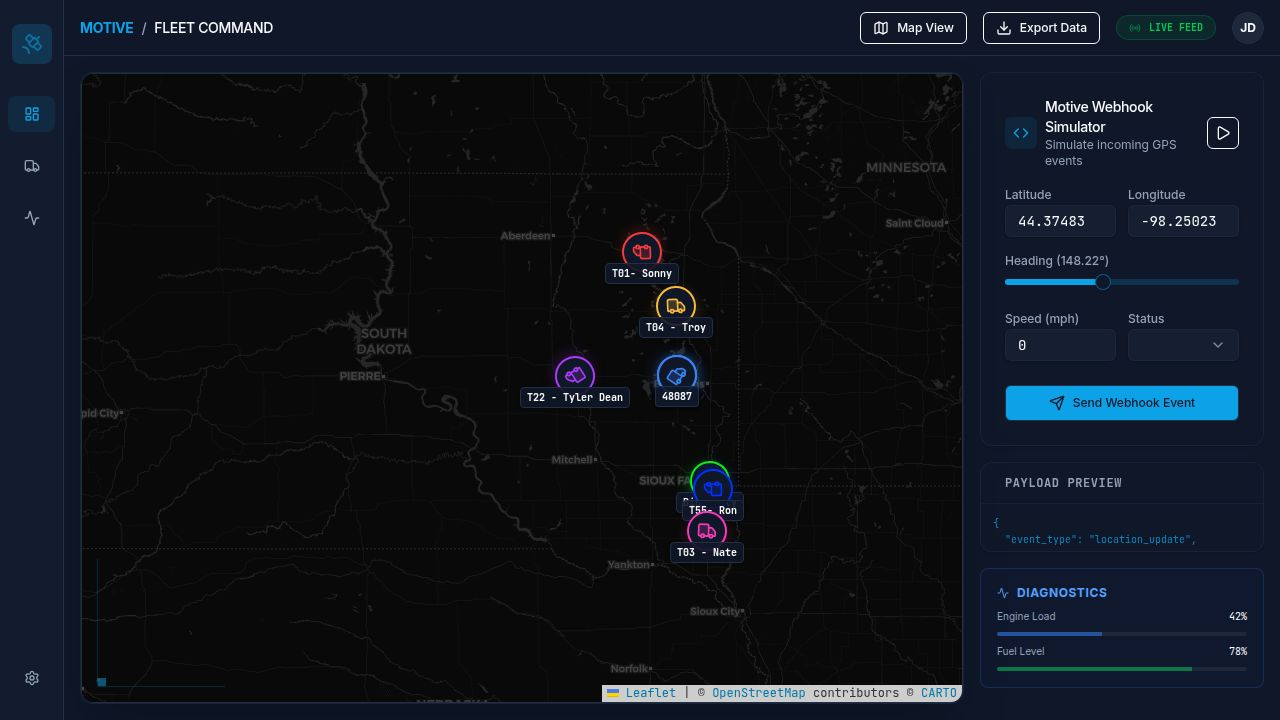
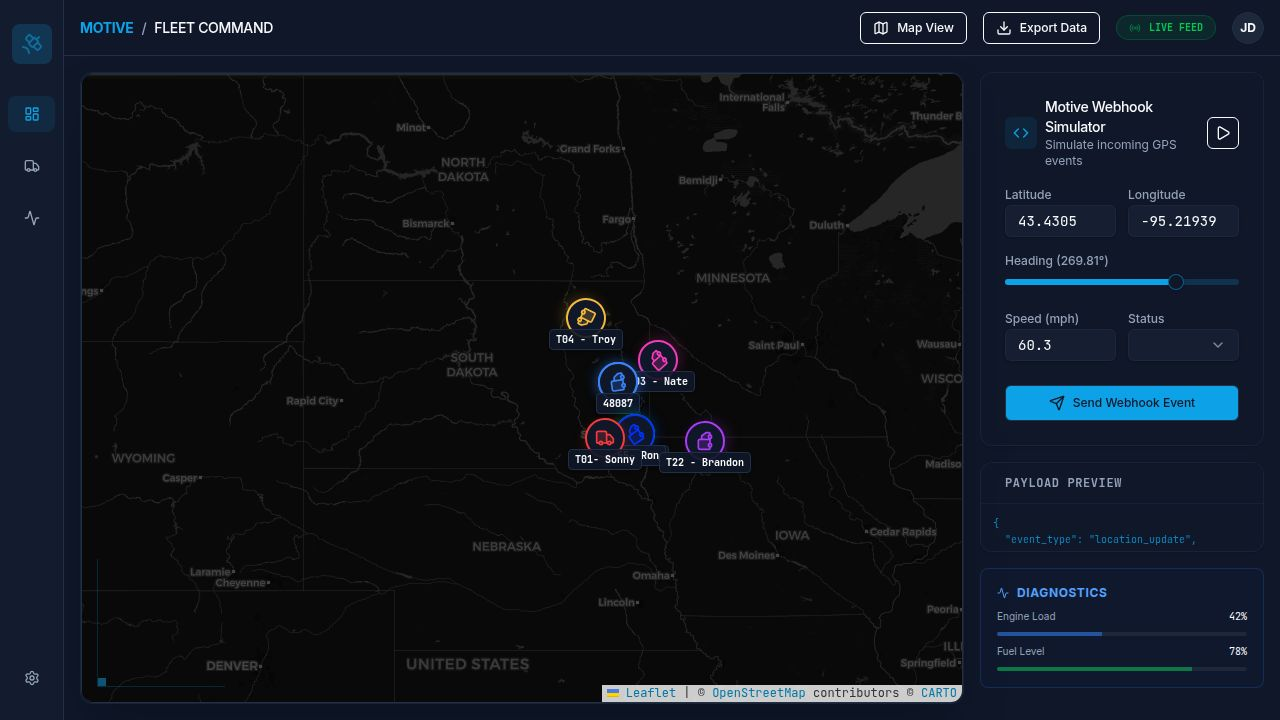
Add a home base marker to the vehicle tracking map
Integrate a new 'Home' icon and marker into the TrackingMap component, defining coordinates and rendering it on the map alongside vehicle markers.

Replit-Commit-Author: Agent
Replit-Commit-Session-Id: e7498cd3-7b2d-4182-8123-419b751fce20
Replit-Commit-Checkpoint-Type: full_checkpoint
Replit-Commit-Event-Id: 08b08409-90f4-4555-b2c6-9b435aa3c9be
Replit-Commit-Screenshot-Url: https://storage.googleapis.com/screenshot-production-us-central1/ace454c7-bee5-4a6a-86d3-5bee9a5e898b/e7498cd3-7b2d-4182-8123-419b751fce20/3vuQqKV

diff --git a/client/src/components/TrackingMap.tsx b/client/src/components/TrackingMap.tsx
@@ -1,7 +1,7 @@
 import { useEffect, useRef, useState } from "react";
 import { MapContainer, TileLayer, Marker, Popup, Polyline, useMap } from "react-leaflet";
 import L from "leaflet";
-import { Truck, Navigation, MapPin, Pencil } from "lucide-react";
+import { Truck, Navigation, MapPin, Pencil, Home } from "lucide-react";
 import { renderToString } from "react-dom/server";
 import { Button } from "@/components/ui/button";
 import EditVehicleDialog from "./EditVehicleDialog";
@@ -89,6 +89,36 @@ function ZoomSetter({ zoom }: { zoom: number }) {
   
   return null;
 }
+
+// Home Base location - 107 Opportunity Drive, Arlington, SD 57212
+const HOME_BASE = {
+  lat: 44.3792,
+  lon: -97.1406,
+  name: "Home Base",
+  address: "107 Opportunity Dr, Arlington, SD"
+};
+
+// Home Base Icon
+const createHomeBaseIcon = () => {
+  const iconHtml = renderToString(
+    <div className="relative flex items-center justify-center w-12 h-12">
+      <div className="relative w-10 h-10 bg-amber-500 rounded-full flex items-center justify-center shadow-lg border-2 border-amber-300"
+           style={{ boxShadow: '0 4px 14px rgba(245, 158, 11, 0.4)' }}>
+        <Home className="w-5 h-5 text-white" />
+      </div>
+      <div className="absolute -bottom-2 bg-background/90 px-1.5 py-0.5 rounded text-[10px] font-mono font-bold border border-border shadow-sm whitespace-nowrap">
+        Home Base
+      </div>
+    </div>
+  );
+
+  return L.divIcon({
+    html: iconHtml,
+    className: "custom-marker-icon",
+    iconSize: [48, 48],
+    iconAnchor: [24, 24],
+  });
+};
 
 // Custom Truck Icon
 const createTruckIcon = (heading: number = 0, name: string = "Vehicle", color: string = "#3b82f6") => {
@@ -274,6 +304,23 @@ export default function TrackingMap({
             </Marker>
           </div>
         ))}
+
+        <Marker 
+          position={[HOME_BASE.lat, HOME_BASE.lon]} 
+          icon={createHomeBaseIcon()}
+        >
+          <Popup className="custom-popup">
+            <div className="p-2 min-w-[180px]">
+              <div className="flex items-center gap-2 mb-2 pb-2 border-b border-border">
+                <Home className="w-4 h-4 text-amber-500" />
+                <span className="font-bold text-sm">{HOME_BASE.name}</span>
+              </div>
+              <div className="text-xs text-muted-foreground">
+                {HOME_BASE.address}
+              </div>
+            </div>
+          </Popup>
+        </Marker>
       </MapContainer>
 
       {editingVehicle && (
